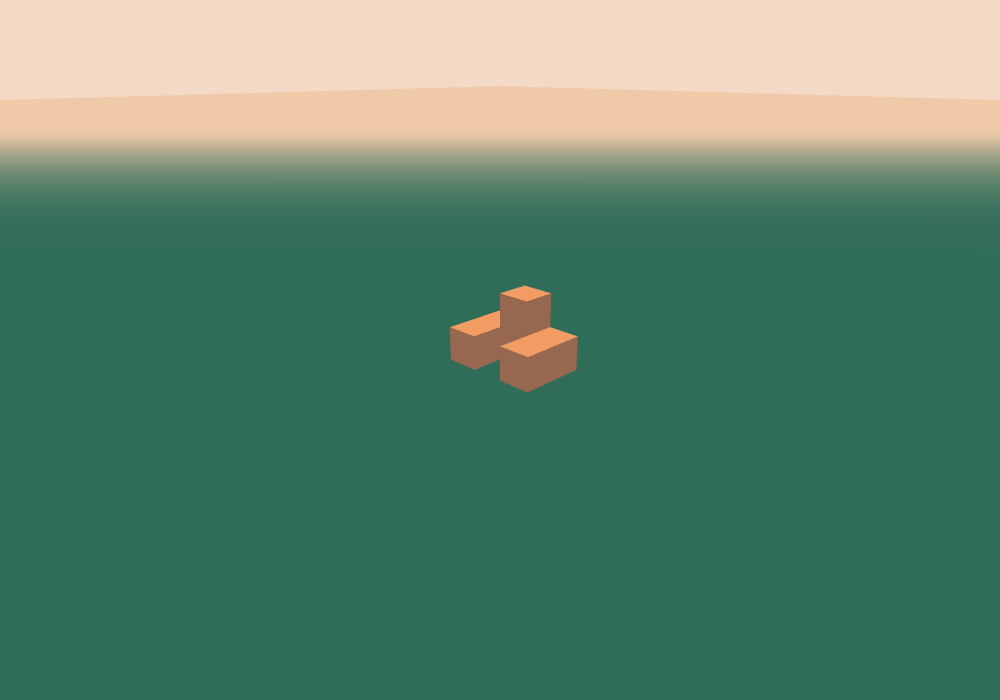
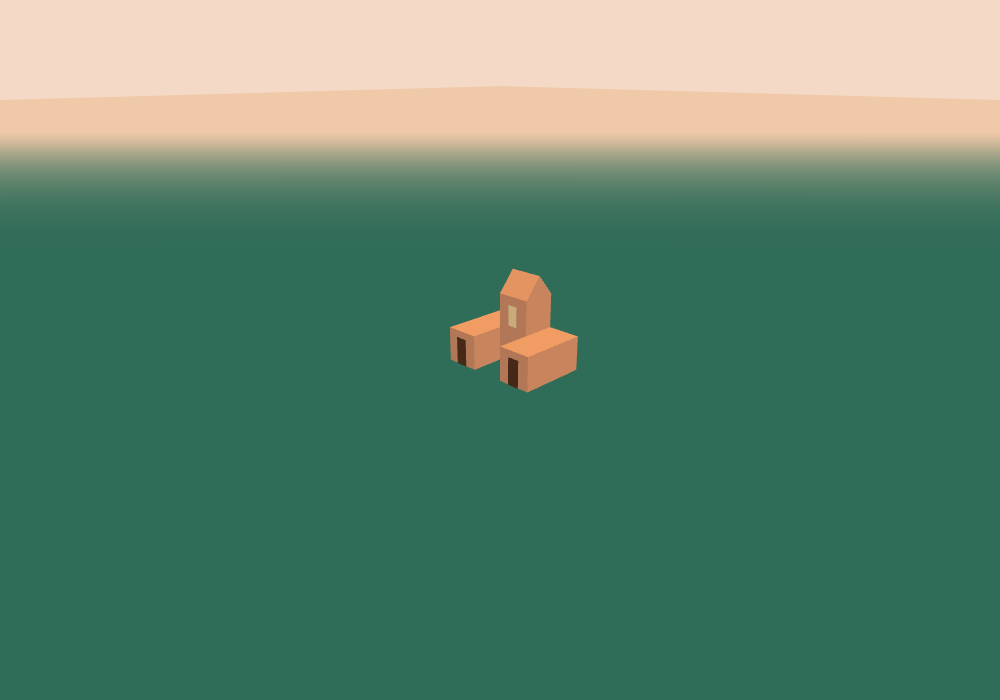
P2 — Toits variés, portes/fenêtres automatiques, murs en marches
Toit à deux pans sur les pics isolés (toit plat sinon), porte posée sur le premier mur au
sol, fenêtres par étage au-dessus, murs "en marches" quand un mur repose sur un voisin plus
bas (escalier extérieur implicite). 4 tests unitaires supplémentaires (15 au total).

Bug trouvé et corrigé par capture d'écran : les panneaux de porte/fenêtre étaient décalés du
mauvais côté du mur (sans épaisseur) et donc invisibles de face, masqués par le test de
profondeur — corrigé en les décalant vers l'extérieur plutôt que vers l'intérieur.

Changed region(s): [[0.434, 0.39, 0.589, 0.57]]

diff --git a/src/geometry/buildCellGeometry.js b/src/geometry/buildCellGeometry.js
@@ -1,36 +1,156 @@
 /* Traduit un descripteur de cellule (src/topology/mesher.js) en géométrie THREE.js.
- * Une cellule occupe le carré [cx,cx+1] x [cz,cz+1] au sol ; chaque mur est un quad vertical
- * sur un seul côté, chaque toit un quad horizontal au sommet. Matériau en DoubleSide (voir
- * src/rendering/materials.js) pour rester robuste à l'ordre des sommets pendant le prototypage. */
+ * Une cellule occupe le carré [cx,cx+1] x [cz,cz+1] au sol. P2 : silhouette automatique enrichie —
+ * mur plein / mur en marches (stepped) / toit plat / toit à deux pans (hip) — pilotée entièrement
+ * par les champs du descripteur, sans toucher au reste du pipeline (section "pipeline procédural",
+ * analysis/GAME_DESIGN.md §3). Matériau en DoubleSide (voir materials.js) : les normales sont
+ * calculées par produit vectoriel (toujours correctes), le double-face reste une marge de sécurité
+ * bon marché tant que la géométrie évolue encore. */
 (function (global) {
-  function addQuad(positions, normals, indices, v0, v1, v2, v3, n) {
+  const TREAD_DEPTH = 0.3; // profondeur d'une marche d'escalier extérieur (fraction de la cellule)
+  const RIDGE_HEIGHT = 0.6; // hauteur du faîtage au-dessus du sommet des murs, toit à deux pans
+
+  function sub(a, b) { return [a[0] - b[0], a[1] - b[1], a[2] - b[2]]; }
+  function cross(a, b) { return [a[1] * b[2] - a[2] * b[1], a[2] * b[0] - a[0] * b[2], a[0] * b[1] - a[1] * b[0]]; }
+  function normalize(v) { const l = Math.hypot(v[0], v[1], v[2]) || 1; return [v[0] / l, v[1] / l, v[2] / l]; }
+
+  // Normale calculée par produit vectoriel (v1-v0)x(v2-v0) : jamais besoin de la deviner à la main,
+  // et toujours correcte tant que v0,v1,v2,v3 sont donnés dans le même sens (voir chaque appelant).
+  function addQuad(positions, normals, indices, v0, v1, v2, v3) {
+    const n = normalize(cross(sub(v1, v0), sub(v2, v0)));
     const base = positions.length / 3;
     for (const v of [v0, v1, v2, v3]) positions.push(v[0], v[1], v[2]);
     for (let i = 0; i < 4; i++) normals.push(n[0], n[1], n[2]);
     indices.push(base, base + 1, base + 2, base, base + 2, base + 3);
   }
 
-  function wallQuad(positions, normals, indices, side, cx, cz, yFrom, yTo) {
-    let v0, v1, v2, v3, n;
-    switch (side) {
-      case 'n': n = [0, 0, -1]; v0 = [cx, yFrom, cz]; v1 = [cx + 1, yFrom, cz]; v2 = [cx + 1, yTo, cz]; v3 = [cx, yTo, cz]; break;
-      case 's': n = [0, 0, 1]; v0 = [cx + 1, yFrom, cz + 1]; v1 = [cx, yFrom, cz + 1]; v2 = [cx, yTo, cz + 1]; v3 = [cx + 1, yTo, cz + 1]; break;
-      case 'e': n = [1, 0, 0]; v0 = [cx + 1, yFrom, cz]; v1 = [cx + 1, yFrom, cz + 1]; v2 = [cx + 1, yTo, cz + 1]; v3 = [cx + 1, yTo, cz]; break;
-      case 'w': n = [-1, 0, 0]; v0 = [cx, yFrom, cz + 1]; v1 = [cx, yFrom, cz]; v2 = [cx, yTo, cz]; v3 = [cx, yTo, cz + 1]; break;
-      default: return;
-    }
-    addQuad(positions, normals, indices, v0, v1, v2, v3, n);
+  function addTri(positions, normals, indices, v0, v1, v2) {
+    const n = normalize(cross(sub(v1, v0), sub(v2, v0)));
+    const base = positions.length / 3;
+    for (const v of [v0, v1, v2]) positions.push(v[0], v[1], v[2]);
+    for (let i = 0; i < 3; i++) normals.push(n[0], n[1], n[2]);
+    indices.push(base, base + 1, base + 2);
   }
 
-  function roofQuad(positions, normals, indices, cx, cz, y) {
-    addQuad(positions, normals, indices, [cx, y, cz + 1], [cx + 1, y, cz + 1], [cx + 1, y, cz], [cx, y, cz], [0, 1, 0]);
+  // Repère paramétrique par côté : u parcourt la largeur du mur (0..1), d s'enfonce vers
+  // l'intérieur de la cellule (0 = à l'aplomb de la cellule voisine, d>0 = en retrait, pour les
+  // marches d'escalier). Évite de dupliquer la logique géométrique pour les 4 côtés.
+  function sidePos(side, cx, cz, u, d, y) {
+    switch (side) {
+      case 'n': return [cx + u, y, cz + d];
+      case 's': return [cx + 1 - u, y, cz + 1 - d];
+      case 'e': return [cx + 1 - d, y, cz + u];
+      case 'w': return [cx + d, y, cz + 1 - u];
+      default: return [cx, y, cz];
+    }
+  }
+
+  function flatWall(positions, normals, indices, side, cx, cz, yFrom, yTo) {
+    const v0 = sidePos(side, cx, cz, 0, 0, yFrom);
+    const v1 = sidePos(side, cx, cz, 1, 0, yFrom);
+    const v2 = sidePos(side, cx, cz, 1, 0, yTo);
+    const v3 = sidePos(side, cx, cz, 0, 0, yTo);
+    addQuad(positions, normals, indices, v0, v1, v2, v3);
+  }
+
+  // Mur "en marches" : une volée de petits paliers (contremarche + giron) au lieu d'un pan plein,
+  // pour lire "ce bâtiment prend appui sur son voisin plus bas" (section 7 du brief : escaliers
+  // automatiques). Le dernier giron est omis : le toit couvre déjà cette bande (évite un
+  // chevauchement de polygones coplanaires à la même hauteur).
+  function steppedWall(positions, normals, indices, side, cx, cz, yFrom, yTo) {
+    const steps = Math.round(yTo - yFrom);
+    for (let i = 0; i < steps; i++) {
+      const y0 = yFrom + i, y1 = y0 + 1, d = i * TREAD_DEPTH, dNext = d + TREAD_DEPTH;
+      // contremarche verticale, en retrait de d
+      addQuad(
+        positions, normals, indices,
+        sidePos(side, cx, cz, 0, d, y0), sidePos(side, cx, cz, 1, d, y0),
+        sidePos(side, cx, cz, 1, d, y1), sidePos(side, cx, cz, 0, d, y1)
+      );
+      if (i < steps - 1) {
+        // giron horizontal du palier
+        addQuad(
+          positions, normals, indices,
+          sidePos(side, cx, cz, 0, d, y1), sidePos(side, cx, cz, 1, d, y1),
+          sidePos(side, cx, cz, 1, dNext, y1), sidePos(side, cx, cz, 0, dNext, y1)
+        );
+      }
+    }
+  }
+
+  function flatRoof(positions, normals, indices, cx, cz, y) {
+    addQuad(positions, normals, indices, [cx, y, cz + 1], [cx + 1, y, cz + 1], [cx + 1, y, cz], [cx, y, cz]);
+  }
+
+  // Toit à deux pans (gable) : faîtage selon l'axe X, à mi-profondeur de la cellule. Pas un vrai
+  // "hip" à 4 pans (plus simple à générer et à tester), mais lit clairement comme "toit pentu"
+  // par opposition au toit plat — suffisant pour la silhouette recherchée (voir GAME_DESIGN.md §2).
+  function hipRoof(positions, normals, indices, cx, cz, y) {
+    const ridgeY = y + RIDGE_HEIGHT, midZ = cz + 0.5;
+    const nw = [cx, y, cz], ne = [cx + 1, y, cz];
+    const sw = [cx, y, cz + 1], se = [cx + 1, y, cz + 1];
+    const rw = [cx, ridgeY, midZ], re = [cx + 1, ridgeY, midZ];
+    addQuad(positions, normals, indices, nw, ne, re, rw); // pan nord
+    addQuad(positions, normals, indices, se, sw, rw, re); // pan sud
+    addTri(positions, normals, indices, nw, rw, sw); // pignon ouest
+    addTri(positions, normals, indices, ne, se, re); // pignon est
   }
 
   function buildCellGeometry(THREE, descriptor) {
     const positions = [], normals = [], indices = [];
-    const { cx, cz, height, walls, roof } = descriptor;
-    for (const w of walls) wallQuad(positions, normals, indices, w.side, cx, cz, w.from, w.to);
-    if (roof) roofQuad(positions, normals, indices, cx, cz, height);
+    const { cx, cz, height, walls, roofType } = descriptor;
+    for (const w of walls) {
+      if (w.stepped) steppedWall(positions, normals, indices, w.side, cx, cz, w.from, w.to);
+      else flatWall(positions, normals, indices, w.side, cx, cz, w.from, w.to);
+    }
+    if (roofType === 'hip') hipRoof(positions, normals, indices, cx, cz, height);
+    else flatRoof(positions, normals, indices, cx, cz, height);
+
+    const geo = new THREE.BufferGeometry();
+    geo.setAttribute('position', new THREE.Float32BufferAttribute(positions, 3));
+    geo.setAttribute('normal', new THREE.Float32BufferAttribute(normals, 3));
+    geo.setIndex(indices);
+    return geo;
+  }
+
+  // Panneau plat en légère saillie sur un mur (porte ou fenêtre) : centré en largeur, borné en
+  // hauteur dans l'intervalle [yFrom,yTo] du mur porteur. `d` doit être légèrement NÉGATIF (vers
+  // l'extérieur) — le mur n'a pas d'épaisseur, donc un panneau en retrait (d>0) se retrouverait
+  // géométriquement derrière lui et serait masqué par le test de profondeur (bug trouvé par
+  // capture d'écran : un panneau à d=+0.03 était invisible de face, voir ROADMAP.md).
+  function inset(positions, normals, indices, side, cx, cz, yFrom, yTo, u0, u1, d) {
+    addQuad(
+      positions, normals, indices,
+      sidePos(side, cx, cz, u0, d, yFrom), sidePos(side, cx, cz, u1, d, yFrom),
+      sidePos(side, cx, cz, u1, d, yTo), sidePos(side, cx, cz, u0, d, yTo)
+    );
+  }
+
+  // Porte : un seul panneau, au sol, sur le mur retenu par le mesher (`doorSide`). Toujours
+  // présente puisque toute cellule construite touche le sol par au moins un côté dans ce modèle.
+  function buildDoorGeometry(THREE, descriptor) {
+    if (!descriptor.doorSide) return null;
+    const positions = [], normals = [], indices = [];
+    inset(positions, normals, indices, descriptor.doorSide, descriptor.cx, descriptor.cz, 0, 0.8, 0.32, 0.68, -0.02);
+    const geo = new THREE.BufferGeometry();
+    geo.setAttribute('position', new THREE.Float32BufferAttribute(positions, 3));
+    geo.setAttribute('normal', new THREE.Float32BufferAttribute(normals, 3));
+    geo.setIndex(indices);
+    return geo;
+  }
+
+  // Fenêtres : une par étage au-dessus du rez-de-chaussée de chaque mur plein (pas sur les murs en
+  // marches, qui restent lisibles comme un escalier plutôt qu'une façade). Un mur d'un seul niveau
+  // (rez-de-chaussée uniquement) n'en reçoit aucune — cohérent avec une porte qui suffit à elle seule.
+  function buildWindowsGeometry(THREE, descriptor) {
+    const positions = [], normals = [], indices = [];
+    const { cx, cz, walls } = descriptor;
+    for (const w of walls) {
+      if (w.stepped) continue;
+      for (let level = w.from + 1; level < w.to; level++) {
+        inset(positions, normals, indices, w.side, cx, cz, level + 0.15, level + 0.75, 0.35, 0.65, -0.02);
+      }
+    }
+    if (!positions.length) return null;
     const geo = new THREE.BufferGeometry();
     geo.setAttribute('position', new THREE.Float32BufferAttribute(positions, 3));
     geo.setAttribute('normal', new THREE.Float32BufferAttribute(normals, 3));
@@ -39,5 +159,5 @@
   }
 
   const ns = (global.DW = global.DW || {});
-  ns.Geometry = { buildCellGeometry };
+  ns.Geometry = { buildCellGeometry, buildDoorGeometry, buildWindowsGeometry };
 })(window);

diff --git a/src/topology/mesher.js b/src/topology/mesher.js
@@ -1,25 +1,47 @@
 /* Analyse de voisinage pure (aucune dépendance 3D) : pour une cellule donnée, décide quels murs
  * sont visibles et où. Règle : un mur apparaît sur le côté S, de la hauteur du voisin jusqu'à la
  * hauteur propre, uniquement si le voisin est plus bas (culling de face façon voxel : si le voisin
- * est aussi haut ou plus haut, il masque/possède déjà cette frontière). Le toit est toujours posé
- * au sommet puisque rien ne peut exister au-dessus dans ce modèle à une seule colonne par cellule.
+ * est aussi haut ou plus haut, il masque/possède déjà cette frontière).
+ *
+ * P2 : chaque mur porte deux indices qui pilotent sa forme (src/geometry/buildCellGeometry.js) :
+ *  - `grounded` (from === 0) : le mur part du sol/de l'eau → c'est un mur de façade normal,
+ *    candidat à recevoir la porte.
+ *  - `stepped`  (from > 0, petit écart) : le mur part du toit d'un voisin plus bas → silhouette
+ *    en marches plutôt qu'un pan vertical plein, pour lire visuellement "cet immeuble prend appui
+ *    sur son voisin" (l'équivalent structurel d'un escalier extérieur).
+ * Le toit est `hip` (à deux pans) seulement si la cellule dépasse ses 4 voisins de tous les côtés
+ * (un vrai sommet isolé) ; sinon `flat` (terrasse/plateau, cohérent avec un voisin aussi haut ou
+ * plus haut juste à côté). La porte est posée sur le premier mur `grounded` trouvé (ordre N,S,E,W :
+ * déterministe, donc stable d'une reconstruction à l'autre — vérifié par les tests).
  * UMD-lite : même fichier utilisable en <script> (DW.Mesher) et en require() Node (tests). */
 (function (global) {
   const SIDES = ['n', 's', 'e', 'w'];
+  const STEP_MAX_SPAN = 2; // au-delà, un mur "posé en hauteur" reste un pan plein (trop haut pour lire comme des marches)
 
   function cellDescriptor(grid, cx, cz) {
     const h = grid.get(cx, cz);
     if (h <= 0) return null;
     const nb = grid.neighbors4(cx, cz);
     const walls = [];
+    let isPeak = true;
     for (const side of SIDES) {
       const nh = nb[side];
-      if (nh < h) walls.push({ side, from: nh, to: h });
+      if (nh >= h) isPeak = false;
+      if (nh < h) {
+        const grounded = nh === 0;
+        const stepped = !grounded && (h - nh) <= STEP_MAX_SPAN;
+        walls.push({ side, from: nh, to: h, grounded, stepped });
+      }
     }
-    return { cx, cz, height: h, walls, roof: true };
+    const doorWall = walls.find((w) => w.grounded) || null;
+    return {
+      cx, cz, height: h, walls, roof: true,
+      roofType: isPeak ? 'hip' : 'flat',
+      doorSide: doorWall ? doorWall.side : null,
+    };
   }
 
   const ns = (global.DW = global.DW || {});
-  ns.Mesher = { cellDescriptor, SIDES };
-  if (typeof module !== 'undefined' && module.exports) module.exports = { cellDescriptor, SIDES };
+  ns.Mesher = { cellDescriptor, SIDES, STEP_MAX_SPAN };
+  if (typeof module !== 'undefined' && module.exports) module.exports = { cellDescriptor, SIDES, STEP_MAX_SPAN };
 })(typeof window !== 'undefined' ? window : globalThis);

diff --git a/src/procedural/world.js b/src/procedural/world.js
@@ -4,26 +4,40 @@
  * fusion en un seul BufferGeometry par îlot prévue en P2+ si le nombre de cellules le justifie. */
 (function (global) {
   class World {
-    constructor(THREE, scene, material) {
+    constructor(THREE, scene, materials) {
       this.THREE = THREE;
       this.scene = scene;
-      this.material = material;
+      this.materials = materials; // palette : { building, window, door, ... }
       this.grid = new DW.Grid();
-      this.meshes = new Map();
+      this.meshes = new Map(); // key -> { structure, windows, door } (windows/door peuvent être null)
     }
 
     _key(cx, cz) { return cx + ',' + cz; }
 
+    _disposeEntry(entry) {
+      for (const mesh of [entry.structure, entry.windows, entry.door]) {
+        if (!mesh) continue;
+        this.scene.remove(mesh);
+        mesh.geometry.dispose();
+      }
+    }
+
     _rebuildCell(cx, cz) {
       const key = this._key(cx, cz);
       const old = this.meshes.get(key);
-      if (old) { this.scene.remove(old); old.geometry.dispose(); this.meshes.delete(key); }
+      if (old) { this._disposeEntry(old); this.meshes.delete(key); }
       const desc = DW.Mesher.cellDescriptor(this.grid, cx, cz);
       if (!desc) return;
-      const geo = DW.Geometry.buildCellGeometry(this.THREE, desc);
-      const mesh = new this.THREE.Mesh(geo, this.material);
-      this.scene.add(mesh);
-      this.meshes.set(key, mesh);
+      const T = this.THREE, G = DW.Geometry;
+      const structure = new T.Mesh(G.buildCellGeometry(T, desc), this.materials.building);
+      this.scene.add(structure);
+      const winGeo = G.buildWindowsGeometry(T, desc);
+      const windows = winGeo ? new T.Mesh(winGeo, this.materials.window) : null;
+      if (windows) this.scene.add(windows);
+      const doorGeo = G.buildDoorGeometry(T, desc);
+      const door = doorGeo ? new T.Mesh(doorGeo, this.materials.door) : null;
+      if (door) this.scene.add(door);
+      this.meshes.set(key, { structure, windows, door });
     }
 
     _touch(cx, cz) {

diff --git a/tests/topology.test.js b/tests/topology.test.js
@@ -20,13 +20,40 @@ function wallSides(desc) {
   return desc.walls.map((w) => w.side).sort().join('');
 }
 
-test('cellule isolée : 4 murs, toit', () => {
+test('cellule isolée : 4 murs, toit, pic (toit à deux pans), porte au sol', () => {
   const g = new Grid();
   g.set(0, 0, 1);
   const d = cellDescriptor(g, 0, 0);
   assert.strictEqual(d.height, 1);
   assert.strictEqual(wallSides(d), 'ensw');
   assert.strictEqual(d.roof, true);
+  assert.strictEqual(d.roofType, 'hip');
+  assert.strictEqual(d.doorSide, 'n'); // premier côté dans l'ordre N,S,E,W, déterministe
+  assert.ok(d.walls.every((w) => w.grounded && !w.stepped));
+});
+
+test('grande construction plate : toit plat (pas un pic isolé)', () => {
+  const g = new Grid();
+  const N = 10;
+  for (let x = 0; x < N; x++) for (let z = 0; z < N; z++) g.set(x, z, 1);
+  assert.strictEqual(cellDescriptor(g, 5, 5).roofType, 'flat'); // intérieur : voisins à la même hauteur
+  assert.strictEqual(cellDescriptor(g, 0, 0).roofType, 'flat'); // bord : au moins un voisin intérieur à la même hauteur
+});
+
+test('mur posé sur un voisin plus bas (mais pas au sol) : en marches si l’écart est petit', () => {
+  const g = new Grid();
+  g.set(0, 0, 1); g.set(1, 0, 3); // voisin w de (1,0) à 1, écart de 2 → en escalier
+  const d = cellDescriptor(g, 1, 0);
+  const w = d.walls.find((x) => x.side === 'w');
+  assert.ok(w && !w.grounded && w.stepped);
+  assert.strictEqual(d.roofType, 'hip'); // tous les voisins sont plus bas : pic isolé malgré l'escalier sur un côté
+});
+
+test('écart trop grand entre voisins : mur plein, pas de marches', () => {
+  const g = new Grid();
+  g.set(0, 0, 1); g.set(1, 0, 5); // écart de 4 > STEP_MAX_SPAN
+  const w = cellDescriptor(g, 1, 0).walls.find((x) => x.side === 'w');
+  assert.ok(w && !w.grounded && !w.stepped);
 });
 
 test('cellule vide : pas de descripteur', () => {

diff --git a/src/rendering/materials.js b/src/rendering/materials.js
@@ -14,6 +14,20 @@
         metalness: 0.0,
         side: THREE.DoubleSide,
       }),
+      // emissive à 0 pour l'instant (P2) : le cycle jour/nuit de P4 fera varier emissiveIntensity
+      // pour simuler une fenêtre allumée au crépuscule, sans changer la géométrie ni ce matériau.
+      window: new THREE.MeshStandardMaterial({
+        color: new THREE.Color('#fff1c2'),
+        emissive: new THREE.Color('#ffcf7a'),
+        emissiveIntensity: 0,
+        roughness: 0.4,
+        side: THREE.DoubleSide,
+      }),
+      door: new THREE.MeshStandardMaterial({
+        color: new THREE.Color('#5b3a29'),
+        roughness: 0.85,
+        side: THREE.DoubleSide,
+      }),
       sun: new THREE.Color('#ffd9a0'),
       ambient: new THREE.Color('#6a7fa8'),
     };

diff --git a/game.js b/game.js
@@ -30,7 +30,7 @@
     water.position.y = -0.05;
     scene.add(water);
 
-    const world = new DW.World(THREE, scene, palette.building);
+    const world = new DW.World(THREE, scene, palette);
 
     function resize() {
       const w = window.innerWidth, h = window.innerHeight;

diff --git a/ROADMAP.md b/ROADMAP.md
@@ -11,13 +11,13 @@
 - [x] 12 tests unitaires purs (Node, sans navigateur) du moteur procédural (`tests/topology.test.js`).
 - [x] Test d'intégration headless (Chrome via Puppeteer) : gestes réels, captures d'écran (`tools/smoke.js`).
 
-## P2 — Génération automatique de bâtiments plus riche
+## P2 — Génération automatique de bâtiments plus riche (fait)
 
-- Toits variés (plat / une pente / deux pentes) choisis selon la silhouette locale.
-- Fenêtres et portes placées automatiquement sur les murs visibles (densité selon la hauteur).
-- Escaliers extérieurs et balcons quand une marche de hauteur le permet.
-- Extension optionnelle "modèle de coins" si le modèle par cellule montre ses limites (voir
-  `GAME_DESIGN.md` §2).
+- [x] Toit à deux pans (hip simplifié, faîtage selon X) si la cellule dépasse ses 4 voisins (pic isolé), toit plat sinon.
+- [x] Porte automatique sur le premier mur au sol (`doorSide`), fenêtres automatiques par étage au-dessus (`src/geometry/buildCellGeometry.js`).
+- [x] Murs "en marches" (escalier extérieur) quand un mur repose sur un voisin plus bas de 1-2 niveaux (`stepped`).
+- Extension optionnelle "modèle de coins" (arches, silhouettes non rectangulaires) non faite — le
+  modèle par cellule suffit pour l'instant (voir `GAME_DESIGN.md` §2).
 
 ## P3 — Plusieurs îles, eau, quais, ponts
 
@@ -67,3 +67,9 @@
   paraîtra toujours plus sombre et désaturée que son code hexadécimal brut (le ciel, non éclairé
   via `scene.background`, reste lui exact). Normal, pas un bug — en tenir compte en choisissant
   les couleurs de matériaux plutôt que de chercher à reproduire le hex exact à l'écran.
+- Un panneau décoratif (porte, fenêtre) "en retrait" sur un mur sans épaisseur doit être décalé
+  **vers l'extérieur** (`d` négatif), jamais vers l'intérieur : un décalage positif le place
+  géométriquement derrière le mur, qui le masque entièrement au test de profondeur — invisible de
+  face bien que présent dans la scène (bug trouvé par capture d'écran rapprochée, voir
+  `src/geometry/buildCellGeometry.js`, fonction `inset`). Toujours vérifier une nouvelle géométrie
+  décorative par une capture cadrée pile en face, pas seulement par le nombre de sommets.
